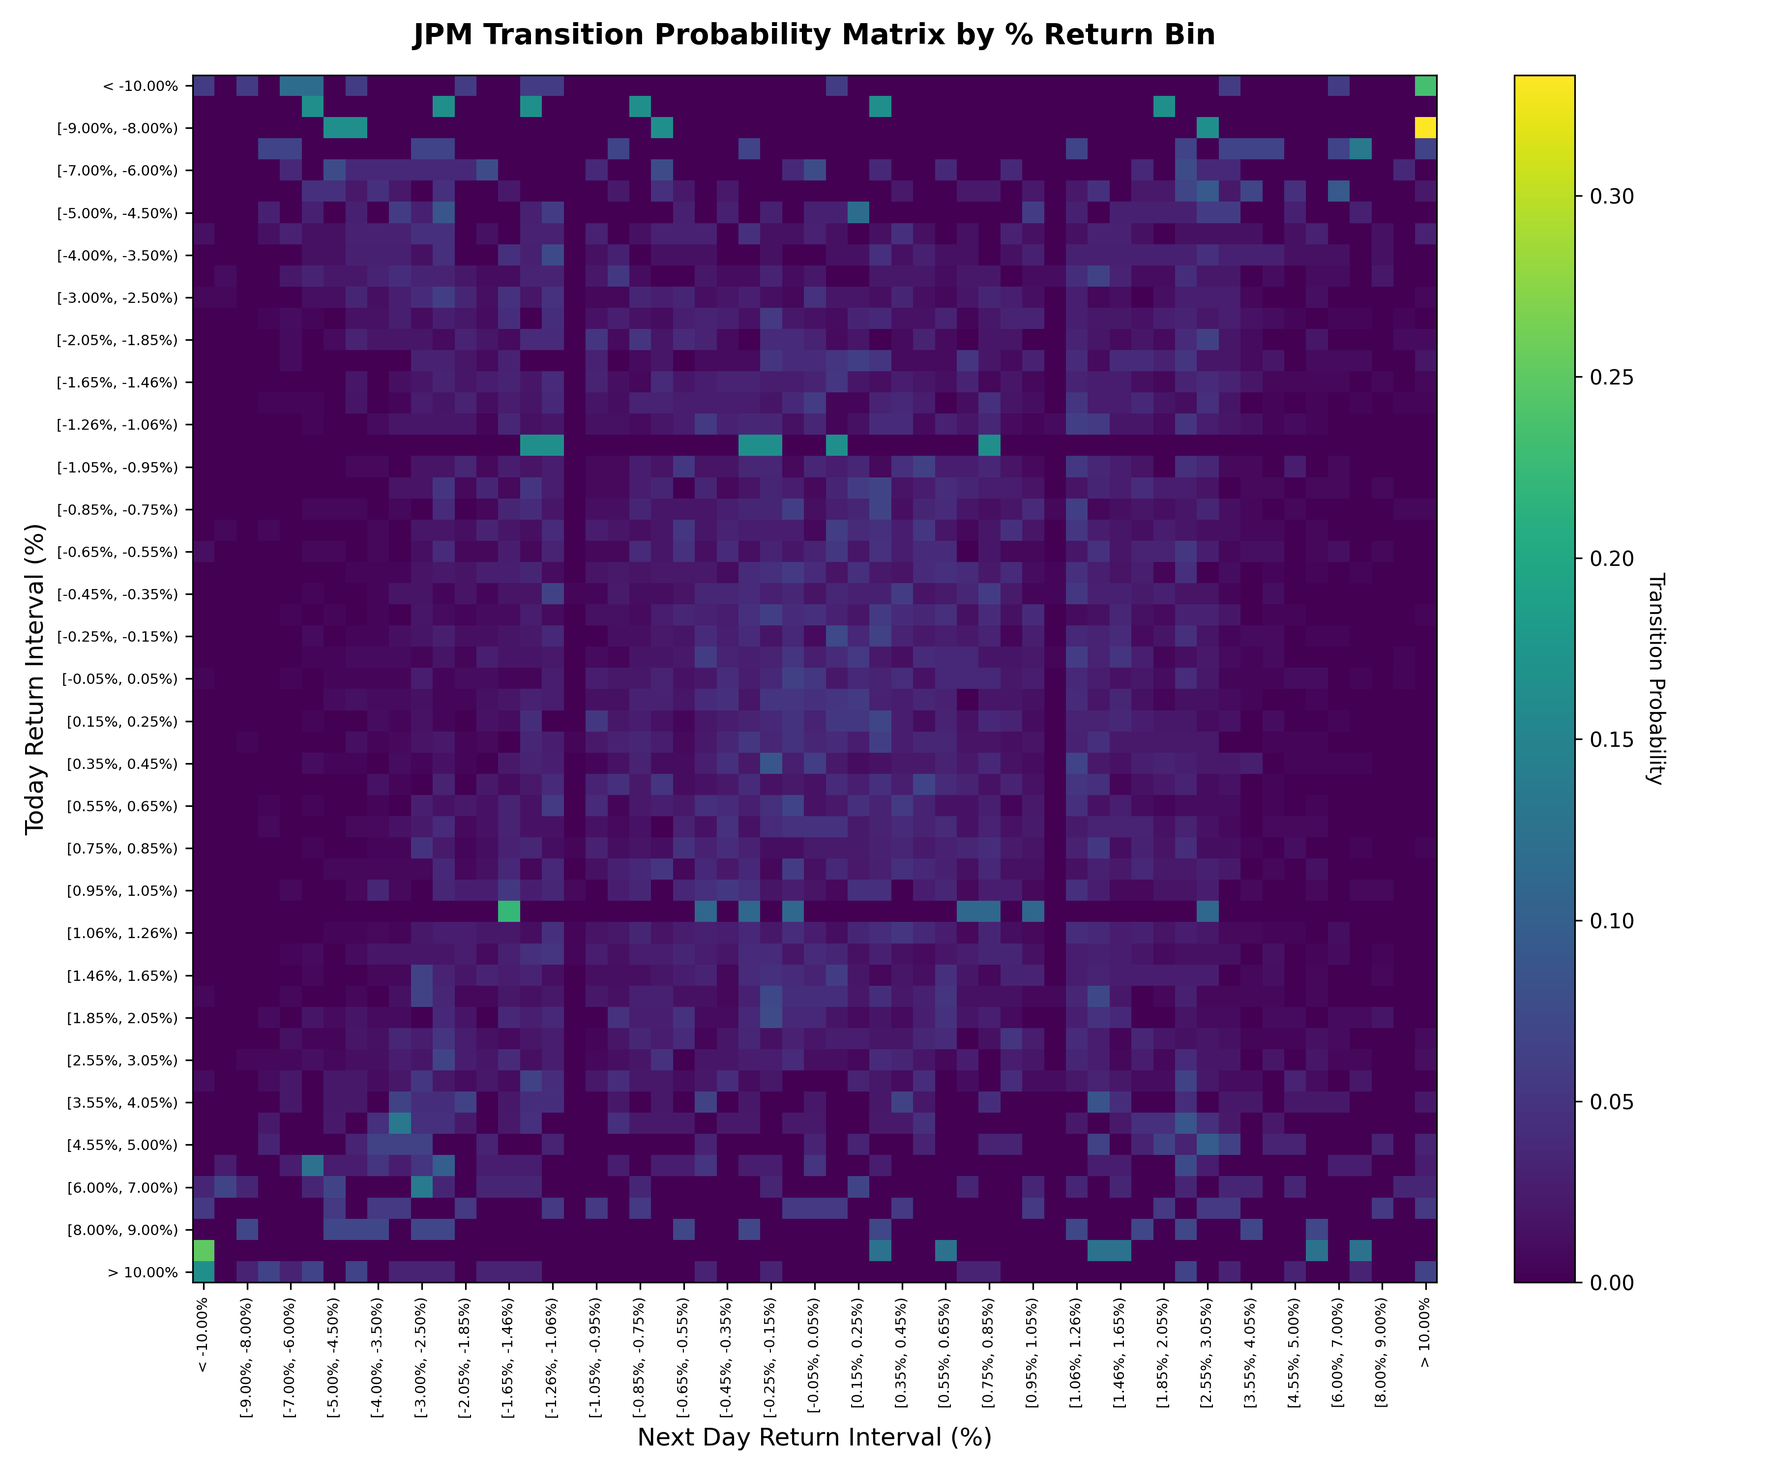
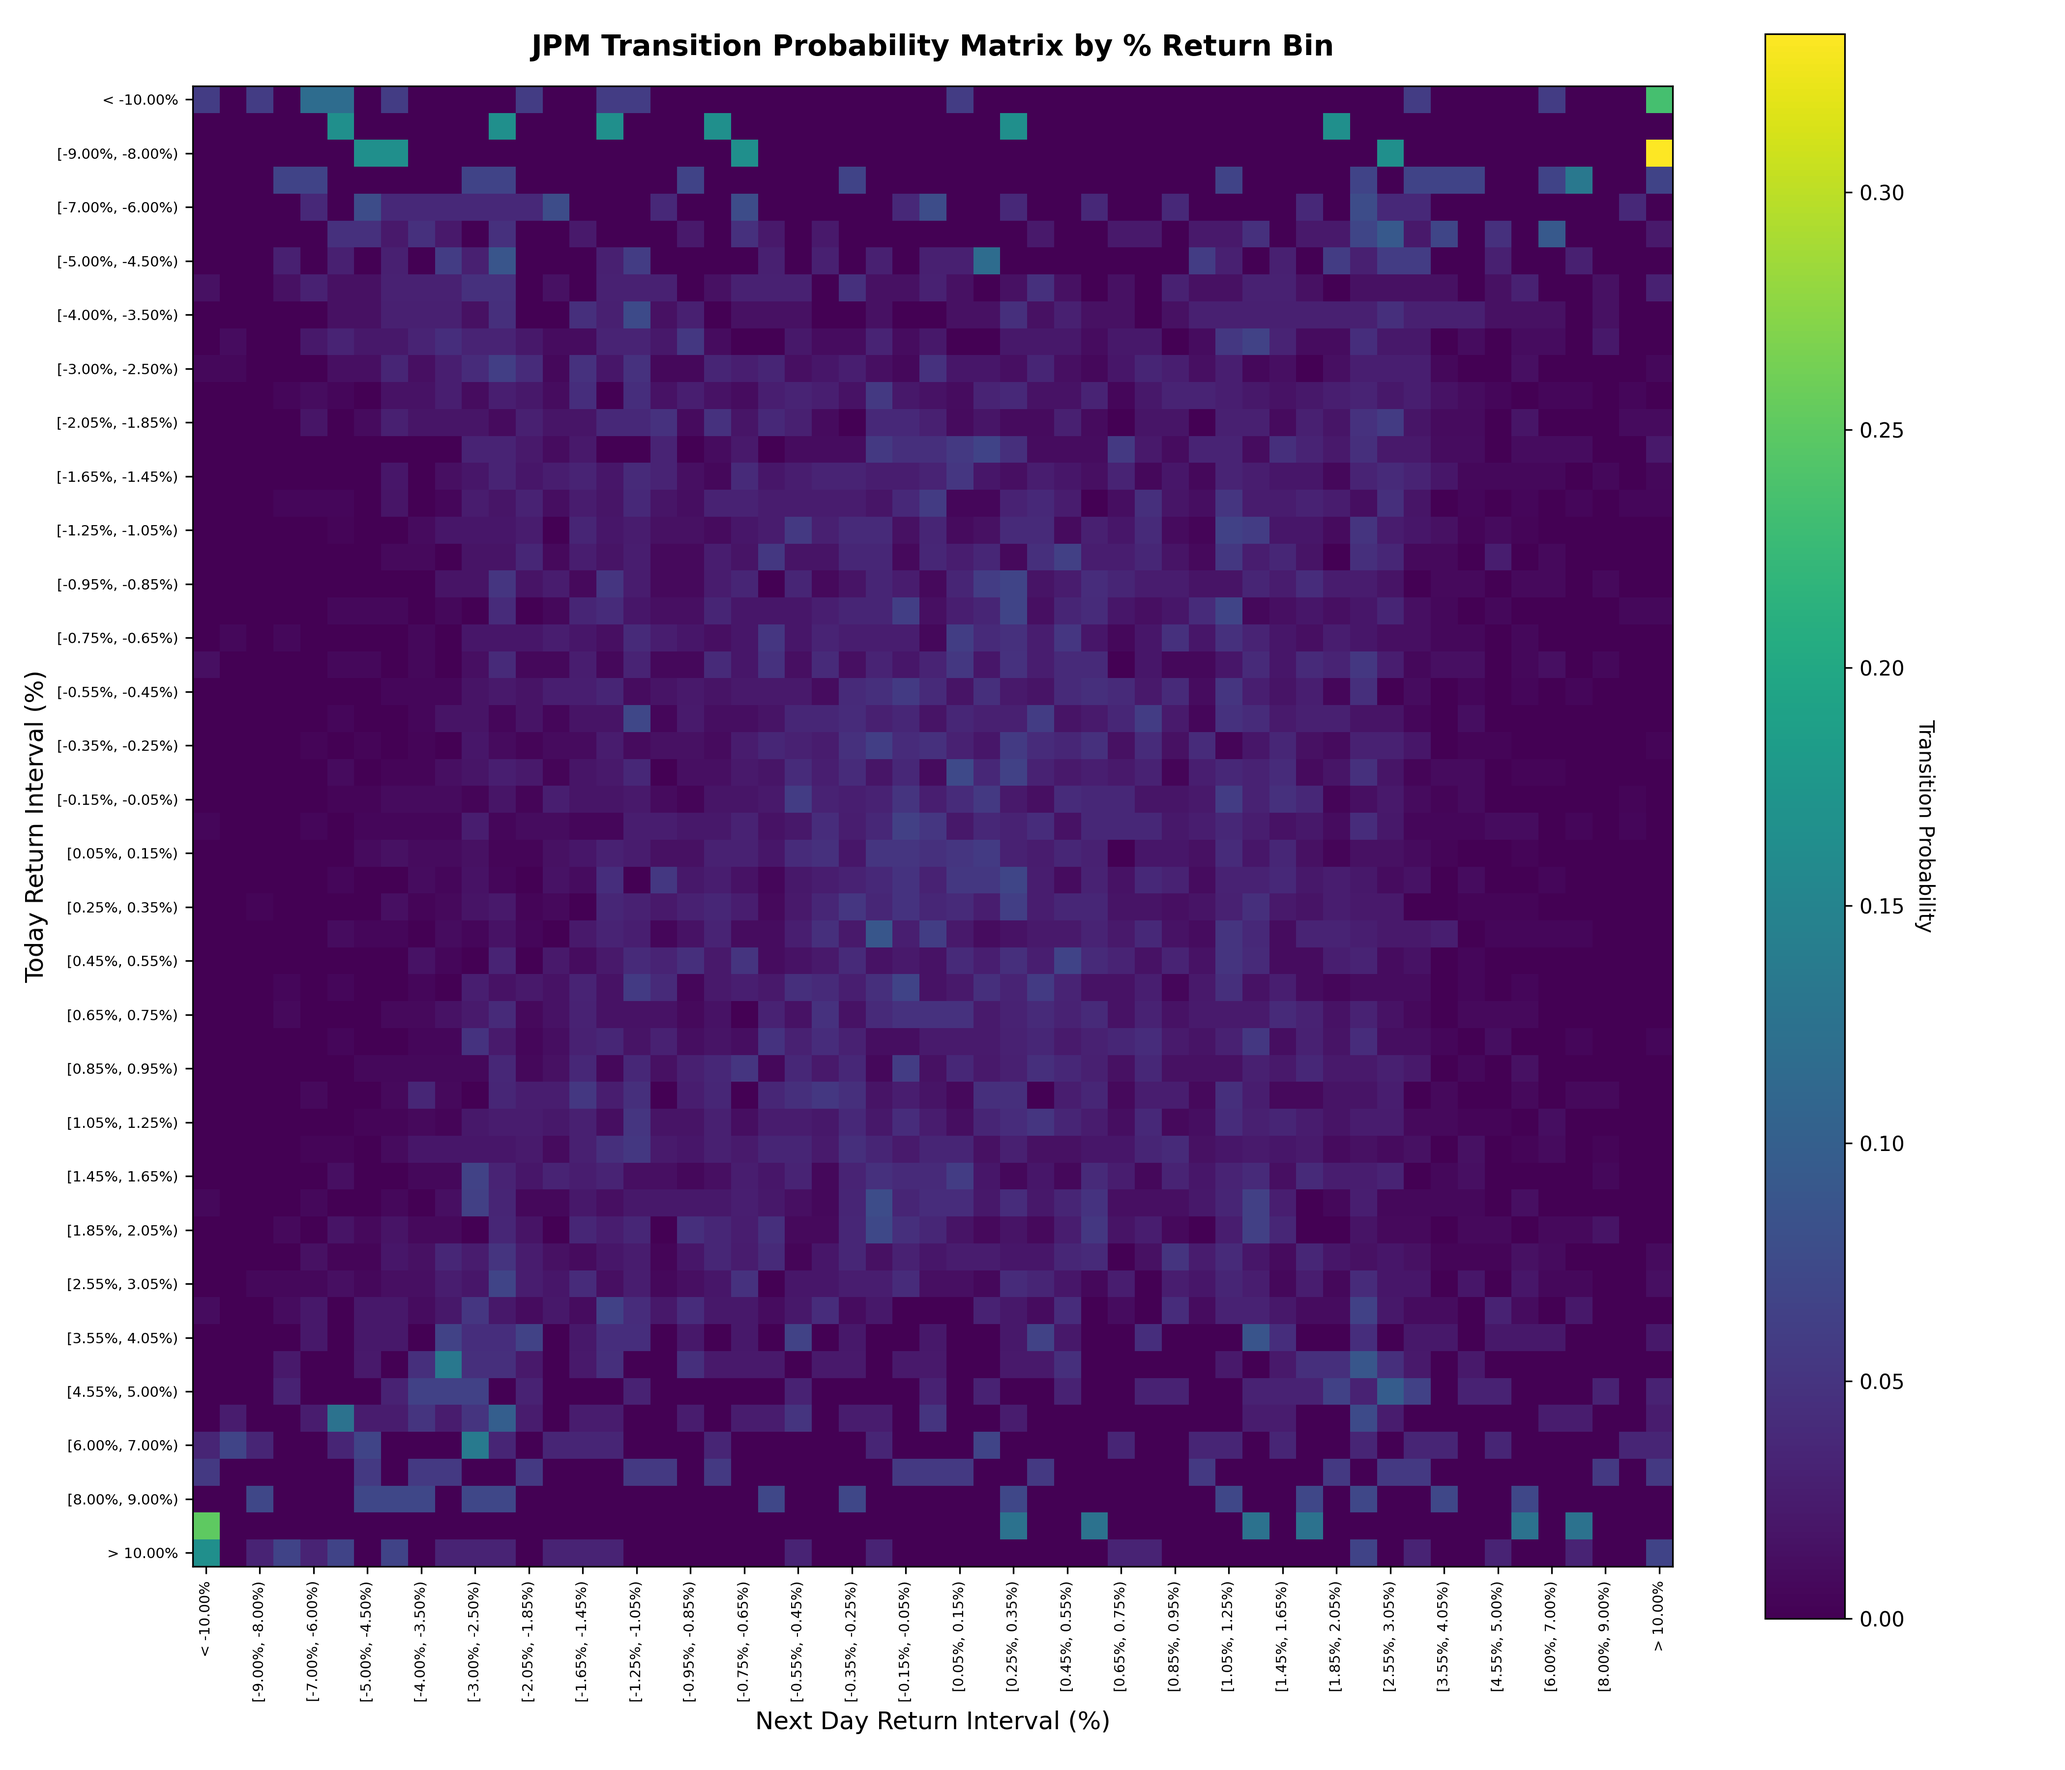
heatmap fixed

diff --git a/Initial_Matrix/Initial_Matrix.py b/Initial_Matrix/Initial_Matrix.py
@@ -11,69 +11,84 @@ data_path = os.path.join(base_dir, "..", "data", "PriceHistoryJPM.csv")
 
 df = pd.read_csv(data_path)
 
-# Identify %Return column
 possible_return_cols = [col for col in df.columns if "%return" in col.lower() or "return" in col.lower()]
 if not possible_return_cols:
-    raise ValueError("No '%Return' column found in PriceHistoryJPM.csv. Please ensure it exists.")
+    raise ValueError("No '%Return' column found in PriceHistoryJPM.csv.")
 return_col = possible_return_cols[0]
 returns = df[return_col].dropna().to_numpy(dtype=float)
 
 # -------------------
-# 2) Define basket edges
+# 2) Construct safe monotonic edges (explicit and ordered)
 # -------------------
 
-edges = []
+# central region
+central_left  = -1.05
+central_right =  1.05
 
-# --- Central region [-1.05, 1.05] (21 baskets evenly spaced) ---
-edges += list(np.linspace(-1.05, 1.05, 22))
+edges = np.concatenate([
 
-# --- [-2.05, -1.06] and [1.06, 2.05] (5 baskets each) ---
-neg_small = np.linspace(-2.05, -1.06, 6)
-pos_small = np.linspace(1.06, 2.05, 6)
-edges = sorted(set(edges + list(neg_small) + list(pos_small)))
+    np.array([-np.inf]),
 
-# --- (-5, -2.05] and [2.05, 5) (0.5% width) ---
-neg_mid = np.arange(-5.0, -2.05, 0.5).tolist()
-pos_mid = np.arange(2.05, 5.01, 0.5).tolist()
-edges = sorted(set(edges + neg_mid + pos_mid))
+    np.arange(-10.0, -5.0, 1.0),
 
-# --- (-10, -5.01] and [5.01, 10) (1% width) ---
-neg_large = np.arange(-10.0, -5.0, 1.0).tolist()
-pos_large = np.arange(5.0, 10.01, 1.0).tolist()
-edges = sorted(set(edges + neg_large + pos_large))
+    np.arange(-5.0, -2.05, 0.5),
 
-# --- Tails ---
-edges = [-np.inf] + edges + [np.inf]
-edges = np.array(sorted(edges))
+    # exact match at seams
+    np.linspace(-2.05, central_left, 6),
+
+    np.linspace(central_left, central_right, 22),
+
+    np.linspace(central_right, 2.05, 6),
+
+    np.arange(2.05, 5.01, 0.5),
+
+    np.arange(5.0, 10.01, 1.0),
+
+    np.array([np.inf])
+])
+
+
+edges = np.unique(edges)
+edges.sort()
+
+# SAFETY CHECK — REQUIRED
+widths = edges[1:] - edges[:-1]
+if not np.all(widths > 0):
+    raise RuntimeError("ERROR: zero-width bins detected in edge construction.")
+
 n_bins = len(edges) - 1
 
 # -------------------
-# 3) Bin each daily return
+# 3) Digitize to bins
 # -------------------
+
 bins_today = np.digitize(returns[:-1], edges) - 1
-bins_next = np.digitize(returns[1:], edges) - 1
+bins_next  = np.digitize(returns[1:], edges) - 1
 
 # -------------------
-# 4) Build transition frequency matrix
+# 4) Transition matrix
 # -------------------
-transition_counts = np.zeros((n_bins, n_bins), dtype=np.float64)
+
+transition_counts = np.zeros((n_bins, n_bins), dtype=float)
+
 for i, j in zip(bins_today, bins_next):
     if 0 <= i < n_bins and 0 <= j < n_bins:
         transition_counts[i, j] += 1
 
-# -------------------
-# 5) Normalize to get probabilities
-# -------------------
 row_sums = transition_counts.sum(axis=1, keepdims=True)
-row_sums[row_sums == 0] = 1
-transition_probs = transition_counts / row_sums
+
+# Normalize *without artificially inflating empty rows*
+transition_probs = np.zeros_like(transition_counts)
+nonzero = (row_sums[:,0] > 0)
+transition_probs[nonzero] = transition_counts[nonzero] / row_sums[nonzero]
 
 # -------------------
-# 6) Create human-readable bin labels
+# 5) Bin labels
 # -------------------
+
 bin_labels = []
 for i in range(n_bins):
-    low, high = edges[i], edges[i + 1]
+    low, high = edges[i], edges[i+1]
     if np.isinf(low):
         label = f"< {high:.2f}%"
     elif np.isinf(high):
@@ -83,19 +98,20 @@ for i in range(n_bins):
     bin_labels.append(label)
 
 # -------------------
-# 7) Save outputs
+# 6) Save outputs
 # -------------------
+
 pd.DataFrame({"Percent Change (%)": returns}).to_csv(
     os.path.join(base_dir, "jpm_percent_change.csv"), index_label="Index"
 )
 
 pd.DataFrame(
     transition_probs,
-    columns=bin_labels,
-    index=bin_labels
+    index=bin_labels,
+    columns=bin_labels
 ).to_csv(os.path.join(base_dir, "jpm_transition_matrix.csv"))
 
-print(f"✅ Transition matrix complete with {n_bins} bins.")
-print("Files saved as:")
-print(f"  {os.path.join(base_dir, 'jpm_percent_change.csv')}")
-print(f"  {os.path.join(base_dir, 'jpm_transition_matrix.csv')}")
+print(f"Transition matrix complete with {n_bins} bins.")
+print("Saved:")
+print(f"- {os.path.join(base_dir, 'jpm_percent_change.csv')}")
+print(f"- {os.path.join(base_dir, 'jpm_transition_matrix.csv')}")

diff --git a/Initial_Matrix/Heat_Map.py b/Initial_Matrix/Heat_Map.py
@@ -18,8 +18,19 @@ labels = df.columns.to_list()
 # 2) Create heatmap
 # -------------------
 
-plt.figure(figsize=(12, 10))
-plt.imshow(matrix, cmap="viridis", aspect="auto", interpolation="nearest")
+plt.figure(figsize=(14, 12))
+
+plt.imshow(
+    matrix,
+    cmap="viridis",
+    aspect='equal',
+    interpolation='none'
+)
+
+plt.title("JPM Transition Probability Matrix by % Return Bin", fontsize=14, weight="bold", pad=15)
+plt.xlabel("Next Day Return Interval (%)", fontsize=12)
+plt.ylabel("Today Return Interval (%)", fontsize=12)
+
 
 plt.title("JPM Transition Probability Matrix by % Return Bin", fontsize=14, weight="bold", pad=15)
 plt.xlabel("Next Day Return Interval (%)", fontsize=12)
